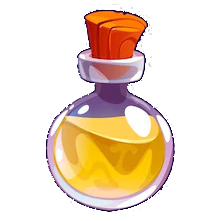
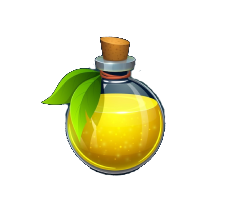
added serum and serum slot

diff --git a/items.py b/items.py
@@ -214,18 +214,31 @@ class CraftingSlot:
             slot.set_text()
 
 
-class SerumSlot:  # TODO
+class SerumSlot:
     slots = []
 
     def __init__(self, canvas: CustomCanvas, x1, y1, x2, y2):
         self.x1 = x1
         self.y1 = y1
+        self.r = CraftingSlot.slots[0].r
         self.canvas = canvas
         self.shape = self.canvas.create_rectangle(x1, y1, x2, y2, width=2)
         SerumSlot.slots.append(self)
+        text_message = f'Serum\nAmount: {Serum.counter}'
+        self.text = self.canvas.create_text(self.x1 + 140, self.y1 + 50, text=text_message, font='Tahoma 14')
+
+        self.image = ImageTk.PhotoImage(Image.open(images['empty_serum']).resize((self.r * 2 - 80, self.r * 2 - 80)))
+
+        self.canvas.create_image(SerumSlot.slots[0].x1 + 50,
+                                 SerumSlot.slots[0].y1 + 50,
+                                 image=self.image,
+                                 anchor=tk.CENTER)
+
+    def set_text(self):
+        self.canvas.itemconfig(self.text, text=f'Serum\nAmount: {Serum.counter}')
 
 
-class Serum:  # TODO
+class Serum:
     counter = 0
 
     def __init__(self, canvas: CustomCanvas):
@@ -235,12 +248,13 @@ class Serum:  # TODO
         self.r = CraftingSlot.slots[0].r
         tag = f"serum{Ingredient.counter}"
         self.canvas.tag_bind(tag, "<ButtonRelease-1>", self.drag_stop)
-        self.image = ImageTk.PhotoImage(Image.open(images['serum']).resize((self.r * 2 - 100, self.r * 2 - 100)))
+        self.image = ImageTk.PhotoImage(Image.open(images['serum']).resize((self.r * 2 - 80, self.r * 2 - 80)))
         self.shape = self.canvas.create_image(self.x, self.y, image=self.image, anchor=tk.CENTER,  tags=(tag,))
         Serum.counter += 1
 
     def drag_stop(self, event):
-        self.canvas.moveto(self.shape, SerumSlot.slots[0].x1, SerumSlot.slots[0].y1)
+        self.canvas.moveto(self.shape, SerumSlot.slots[0].x1 - 10, SerumSlot.slots[0].y1 - 10)
+        SerumSlot.slots[0].set_text()
 
 
 class Ingredient(InventoryBase):

diff --git a/config.py b/config.py
@@ -9,4 +9,5 @@ images = {
     'd': image_path + 'D.png',
     'e': image_path + 'E.png',
     'serum': image_path + 'serum.png',
+    'empty_serum': image_path + 'empty_serum.png',
 }
